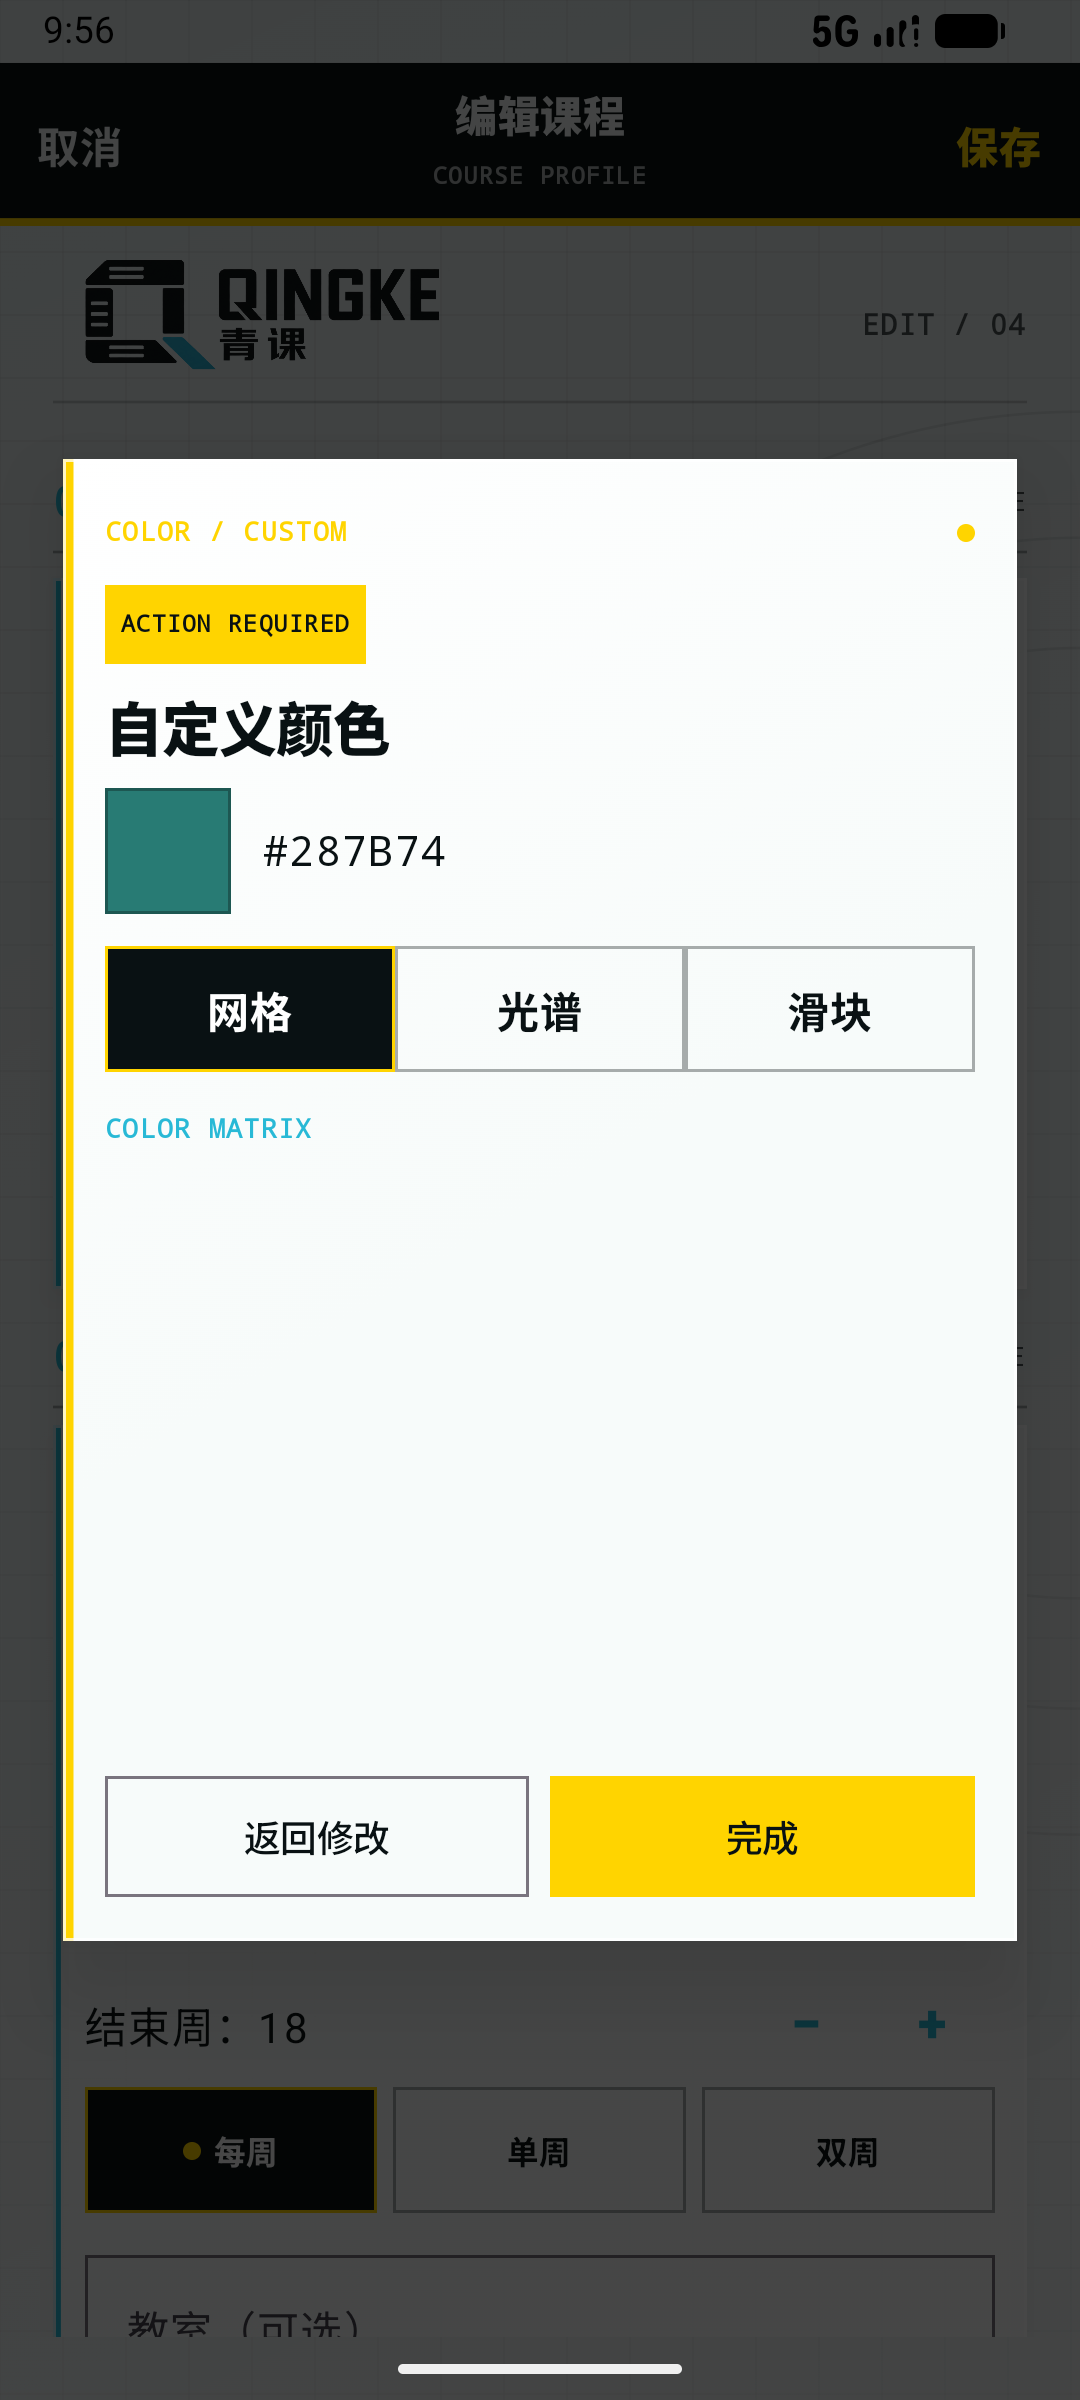
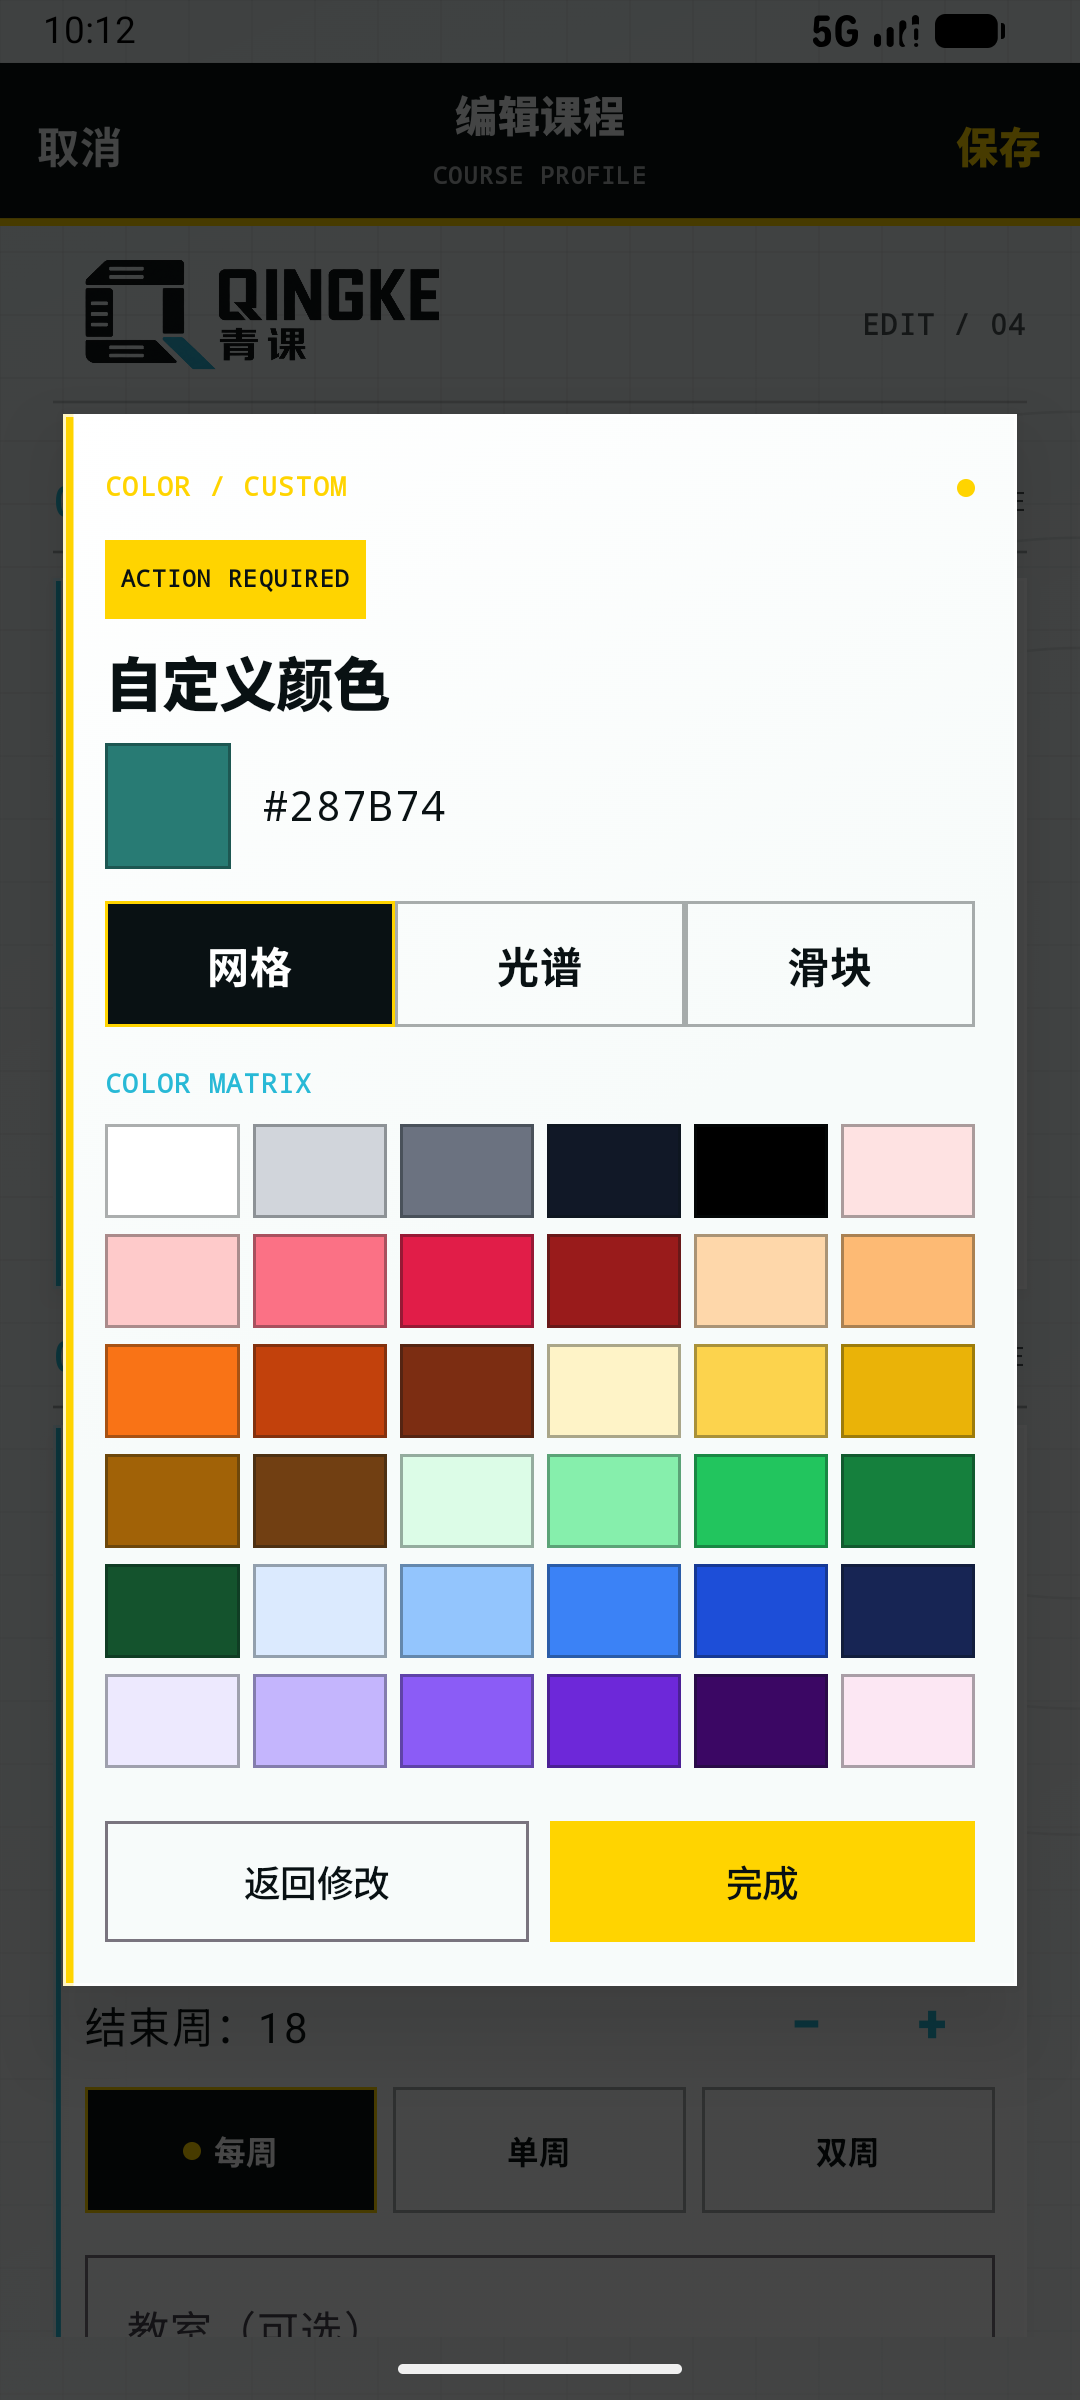
fix(android): render r5 color matrix cells

diff --git a/Android/app/src/androidTest/java/com/qingke/schedule/ui/QingKeAppTest.kt b/Android/app/src/androidTest/java/com/qingke/schedule/ui/QingKeAppTest.kt
@@ -17,6 +17,7 @@ import androidx.compose.runtime.getValue
 import androidx.compose.runtime.mutableStateOf
 import androidx.compose.runtime.setValue
 import androidx.compose.ui.graphics.asAndroidBitmap
+import androidx.compose.ui.geometry.Offset
 import androidx.compose.ui.graphics.Color
 import androidx.compose.ui.Modifier
 import androidx.compose.ui.draw.drawBehind
@@ -197,23 +198,27 @@ class QingKeAppTest {
 
     @Test fun r5TerminalColorModesDropdownsAndRepeatSelectorKeepOneEditorState() {
         val schedule = CourseScheduleFormState("r5", 1, 1, 1, 1, 18, RepeatRule.EVERY, "")
+        val baseState = readyToday(); val tenPeriodState = baseState.copy(data = baseState.data.copy(semester = baseState.data.semester!!.copy(periods = (1..10).map { Period(it, "%02d:00".format(7 + it), "%02d:45".format(7 + it)) })))
         var editor by mutableStateOf<CourseEditorState?>(CourseEditorState(CourseEditorMode.CREATE, color = "#287B74", colorInput = "#287B74", schedules = listOf(schedule), isColorDialogOpen = true))
         var day = 1; var start = 1; var end = 1; var repeat = RepeatRule.EVERY
-        rule.setContent { QingKeAppContent(readyToday(), null, MainTab.TODAY, QingKeAppActions(
+        rule.setContent { QingKeAppContent(tenPeriodState, null, MainTab.TODAY, QingKeAppActions(
             updateCourseColor = { value -> editor = editor!!.copy(color = value, colorInput = value) },
             updateCourseDay = { _, value -> day = value }, updateCourseStartPeriod = { _, value -> start = value }, updateCourseEndPeriod = { _, value -> end = value }, updateCourseRepeat = { _, value -> repeat = value },
         ), editor = editor) }
         rule.onNodeWithTag("course-color-mode-GRID").assertIsDisplayed()
         rule.onNodeWithTag("course-color-grid").assertIsDisplayed()
-        rule.onNodeWithTag("course-color-grid-E11D48").performClick(); assertEquals("#E11D48", editor!!.color)
+        fun pixels(tag: String, predicate: (Int) -> Boolean) = rule.onNodeWithTag(tag).captureToImage().asAndroidBitmap().let { bitmap -> (0 until bitmap.height).sumOf { y -> (0 until bitmap.width).count { x -> predicate(bitmap.getPixel(x, y)) } } }
+        assertTrue("red grid swatch must paint pixels", pixels("course-color-grid-E11D48") { pixel -> (pixel shr 16 and 0xff) > 160 && (pixel shr 8 and 0xff) < 100 } > 80)
+        assertTrue("green grid swatch must paint pixels", pixels("course-color-grid-22C55E") { pixel -> (pixel shr 8 and 0xff) > 130 && (pixel shr 16 and 0xff) < 80 } > 80)
+        rule.onNodeWithTag("course-color-grid-E11D48").performClick(); assertEquals("#E11D48", editor!!.color); rule.onNodeWithText("✓", useUnmergedTree = true).assertIsDisplayed()
         rule.onNodeWithTag("course-color-mode-SPECTRUM").performClick(); rule.onNodeWithTag("course-color-spectrum-area").assertIsDisplayed()
-        rule.onNodeWithTag("course-color-spectrum-area").performTouchInput { touchClick(center) }; assertTrue(editor!!.color.matches(Regex("^#[0-9A-F]{6}$")))
-        rule.onNodeWithTag("course-color-mode-SLIDERS").performClick(); rule.onNodeWithTag("course-r-slider").performTouchInput { touchClick(center) }; assertTrue(editor!!.color.matches(Regex("^#[0-9A-F]{6}$")))
+        val gridColor = editor!!.color; rule.onNodeWithTag("course-color-spectrum-area").performTouchInput { touchClick(center) }; val spectrumColor = editor!!.color; assertTrue("spectrum tap must change color", spectrumColor != gridColor); val spectrumHsv = hsvParts(spectrumColor); assertTrue("spectrum center saturation=${spectrumHsv[1]}", spectrumHsv[1] in 35..65); assertTrue("spectrum center value=${spectrumHsv[2]}", spectrumHsv[2] in 35..65)
+        rule.onNodeWithTag("course-color-mode-SLIDERS").performClick(); val beforeRed = rgbParts(editor!!.color)[0]; rule.onNodeWithTag("course-r-slider").performTouchInput { touchClick(Offset(700f, 16f)) }; val afterRed = rgbParts(editor!!.color)[0]; assertTrue("RGB slider must write a changed red channel before=$beforeRed after=$afterRed", beforeRed != afterRed && afterRed in 220..255)
         editor = editor!!.copy(isColorDialogOpen = false); rule.waitForIdle()
         rule.onNodeWithTag("course-schedule-header-r5").performScrollTo()
-        rule.onNodeWithTag("course-day-r5").performClick(); rule.onNodeWithTag("course-day-r5-menu").assertIsDisplayed(); rule.onNodeWithTag("course-day-r5-option-5").performClick(); assertEquals(5, day)
-        rule.onNodeWithTag("course-start-period-r5").performClick(); rule.onNodeWithTag("course-start-period-r5-option-2").performClick(); assertEquals(2, start)
-        rule.onNodeWithTag("course-end-period-r5").performClick(); rule.onNodeWithTag("course-end-period-r5-option-3").performClick(); assertEquals(3, end)
+        rule.onNodeWithTag("course-day-r5").performClick(); rule.onNodeWithTag("course-day-r5-menu").assertIsDisplayed(); rule.onNodeWithTag("course-day-r5-option-7").performScrollTo().performClick(); assertEquals(7, day)
+        rule.onNodeWithTag("course-start-period-r5").performClick(); rule.onNodeWithTag("course-start-period-r5-option-10").performScrollTo().performClick(); assertEquals(10, start)
+        rule.onNodeWithTag("course-end-period-r5").performClick(); rule.onNodeWithTag("course-end-period-r5-option-10").performScrollTo().performClick(); assertEquals(10, end)
         rule.onNodeWithTag("course-repeat-r5-ODD").performClick(); assertEquals(RepeatRule.ODD, repeat)
         listOf("course-repeat-r5-EVERY", "course-repeat-r5-ODD", "course-repeat-r5-EVEN").forEach(::assertAtLeast48Dp)
     }

diff --git a/Android/app/src/main/java/com/qingke/schedule/ui/QingKeApp.kt b/Android/app/src/main/java/com/qingke/schedule/ui/QingKeApp.kt
@@ -834,8 +834,8 @@ internal object CourseColorVisualSpec {
     Text("COLOR MATRIX", color = QingKeCyan, fontFamily = FontFamily.Monospace, fontSize = 10.sp, fontWeight = FontWeight.Black)
     CourseColorVisualSpec.grid.chunked(6).forEach { row -> Row(Modifier.fillMaxWidth(), horizontalArrangement = Arrangement.spacedBy(5.dp)) { row.forEach { option ->
         val selected = option.equals(color, true)
-        Box(Modifier.weight(1f).heightIn(min = 36.dp).padding(vertical = 3.dp).clickable(enabled = enabled) { update(option) }.semantics { contentDescription = "网格颜色 $option" }.testTag("course-color-grid-${option.removePrefix("#")}"), contentAlignment = Alignment.Center) {
-            Box(Modifier.fillMaxSize().background(courseColor(option), TerminalShape).border(if (selected) 3.dp else 1.dp, if (selected) SignalYellow else terminalBorder(dark), TerminalShape), contentAlignment = Alignment.Center) { if (selected) Text("✓", color = if (option == "#FFFFFF") InverseSurface else Color.White, fontWeight = FontWeight.Black) }
+        Box(Modifier.weight(1f).height(42.dp).padding(vertical = 3.dp).clickable(enabled = enabled) { update(option) }.semantics { contentDescription = "网格颜色 $option" }.testTag("course-color-grid-${option.removePrefix("#")}"), contentAlignment = Alignment.Center) {
+            Box(Modifier.fillMaxWidth().height(36.dp).background(courseColor(option), TerminalShape).border(if (selected) 3.dp else 1.dp, if (selected) SignalYellow else terminalBorder(dark), TerminalShape), contentAlignment = Alignment.Center) { if (selected) Text("✓", color = if (option == "#FFFFFF") InverseSurface else Color.White, fontWeight = FontWeight.Black) }
         }
     } } }
 }

diff --git a/docs/Android/handoff.md b/docs/Android/handoff.md
@@ -1,13 +1,13 @@
 # 安卓项目当前交接状态
 
-## P3-04 视觉 R5 终端表单组件已实施，待 Sol 集中实际 diff 复审／用户视觉验收（最新，2026-09-15）
+## P3-04 视觉 R5 网格色块返修已实施，待 Sol 集中实际 diff 复审／用户视觉验收（最新，2026-09-15）
 
 本轮以 `b636eeddc02ba7cc51ae5bb14c05ed0b6c2a91ec` 为 Android 基准，仅实施用户授权的三模式自定义课程颜色面板、星期／起止节次终端下拉菜单和每周／单周／双周终端分段控件。iOS 工作区 `/Users/takagisan/课表软件-IOS/ios`（只读基准 `fc3ddfb8ffa14b205a591ffdbed5632d5f975001`）未修改；未改 Web、Room/schema、共享协议、持久化格式、业务规则、周课表、设置、导入导出、其他阶段或 `main`。
 
-- 实现、测试及 R5 证据提交为 `ba1be75`（`feat(android): add r5 terminal course controls`），已推送 `origin/Android`；本交接更新提交仍待生成，避免在文件中自引用。`CourseColorDialog` 默认“网格”，新增等宽且 48dp 的“网格／光谱／滑块”入口；三页均以既有 ViewModel `editor.color` 为唯一颜色源。网格提供灰阶和 30+ 主色相／明暗单元；光谱为确定的 HSV 饱和度／明度平面加色相拖动条和选择指示器；滑块为 RGB 点击／拖动轨道并保留 `HEX / ADVANCED` 辅助输入。存储和 editor 仍只接收严格 `#RRGGBB`。
+- 实现、测试及 R5 首版证据提交为 `ba1be75`（`feat(android): add r5 terminal course controls`），已推送 `origin/Android`。Sol 目视核对四张首版截图后发现“COLOR MATRIX”标题下没有色块：`ColorGridPicker` 的 `fillMaxSize()` 处在可滚动、无界高度的内容中，实际没有可绘制高度。本次只将网格单元改为明确 `42dp` 外层／`36dp` 色块高度，并以 bitmap 像素回归验证红、绿代表色数量与选中后的 `editor.color`／勾标记；未改颜色持久化或任何业务规则。返修实现提交与本交接提交均待生成，避免在文件中自引用。
 - `TerminalDropdownMenu` 供星期、开始节次、结束节次共用：直角、不透明主题 surface、边框／阴影、青色分隔线、monospace 选项，当前项为 inverse 背景和黄色勾；保留原 choices、回调、disabled 与无障碍。`TerminalRepeatSelector` 取代 Material outlined buttons，三项 48dp、`selectableGroup`/radio 语义、深色反相选中态和黄色状态点，未改 `RepeatRule` 映射。
-- 新增纯 Kotlin 颜色契约覆盖网格代表色、HSV 平面边界／回环、RGB/HSV/HEX 边界；新增 API 37 Compose 用例覆盖三模式切换、网格／光谱／RGB 实时更新、状态保留、三类下拉回调和 repeat 点击。最终 Debug／Release JVM 各 **92 tests、0 failures/errors/skipped**；Debug、Release、AndroidTest APK 构建通过；`lintDebug` 完成（0 errors，沿用 21 warnings）；API 37 ARM64 完整 `connectedDebugAndroidTest --rerun-tasks` **67 tests、0 failures/errors/skipped**。文档验证、两个文档脚本和 `git diff --check` 待本轮收口后再次执行。
-- 最终生产入口创建并保存 `VisualR5`，重新打开 EDIT 核对网格 modal；截图在 `docs/Android/evidence/p3-04-visual-r5/`。已实际核对浅色／深色 100% 与深色 130%，目标 logcat 无 FATAL/ANR；设备恢复 light／1.0，停在 `VisualR5` 的 EDIT“网格”面板。**已实现、已测试，待 Sol 集中实际 diff 复审及用户视觉验收；不得据此宣称验收或启动下一阶段。**
+- 新增纯 Kotlin 颜色契约覆盖网格代表色、HSV 平面边界／回环、RGB/HSV/HEX 边界；API 37 Compose 用例覆盖三模式切换、网格像素、网格／光谱／RGB 实时更新、状态保留、三类下拉回调和 repeat 点击。返修后重新执行 Debug／Release JVM，各 **92 tests、0 failures/errors/skipped**；Debug、Release、AndroidTest APK 构建通过；`lintDebug` 为 **0 errors、21 warnings**；API 37 ARM64 完整 `connectedDebugAndroidTest --rerun-tasks` 为 **67 tests、0 failures/errors/skipped**，XML 位于 `Android/app/build/outputs/androidTest-results/connected/debug/TEST-qingke-api37-r3-arm(AVD) - 17.xml`。文档验证、两个文档脚本和 `git diff --check` 待本轮收口后执行。
+- 最终生产入口保留 `VisualR5` 并重新打开 EDIT；返修后已实际核对网格浅色 100%、深色 100%、深色 130%，并新增经目视核验的浅色光谱、滑块、开始节次菜单和 repeat 截图，清单在 `docs/Android/evidence/p3-04-visual-r5/README.md`。目标 logcat 无 FATAL/ANR；设备将恢复为 light／1.0，停在 `VisualR5` 的 EDIT“网格”面板。**Terra 返修已完成、已测试，待 Sol 集中实际 diff 复审及用户视觉验收；不得据此宣称验收或启动下一阶段。**
 
 ## P3-04 视觉 R4 已通过 Sol 技术复审，待用户视觉验收（最新，2026-09-15）
 

diff --git a/docs/Android/evidence/p3-04-visual-r5/README.md b/docs/Android/evidence/p3-04-visual-r5/README.md
@@ -2,11 +2,14 @@
 
 2026-09-15，`qingke-api37-r3-arm`（API 37、`arm64-v8a`）最终 debug APK 的生产入口截图。范围仅为三模式课程颜色面板、课程安排下拉菜单和重复分段控件；不代表 Sol 集中实际 diff 复审或用户视觉验收。
 
-- `color-grid-light-100.png`：CREATE 页面浅色 100% 的默认“网格”颜色面板，三个等宽入口、完整颜色矩阵、预览和终端 modal 可见。
-- `color-grid-visualr5-light-100.png`：保存并重新打开 `VisualR5` 后的 EDIT 页面，默认网格面板仍可用。
-- `color-grid-dark-100.png`：深色 100% 的 EDIT 网格面板。
-- `color-grid-dark-130.png`：深色 `font_scale=1.3` 的 EDIT 网格面板，模式入口和网格保持可见。
-- `weekday-menu-light-100.png`：星期选择器的非 Material 紫色终端菜单，包含不透明 surface、青色信息线和反相当前项。
-- `repeat-selector-light-100.png`：EDIT 安排中的每周／单周／双周直角终端分段控件，当前项带深色反相底与黄色状态点。
+首次 R5 复拍时，Sol 发现“COLOR MATRIX”标题下没有色块。原因是网格单元在可滚动、无界高度的容器中以 `fillMaxSize()` 测量；返修将每个单元改为明确的 `42dp` 外层／`36dp` 色块高度。下面仅列返修后已目视核验的截图；未列入的同目录旧文件是首版历史证据，不能用于证明本次修复。
 
-自动化覆盖三种颜色模式共享同一 editor 颜色、网格／HSV／RGB 映射边界、三类选择器回调、repeat 互斥点击、浅深/130%既有布局及完整 API 37 回归。生产入口还核对了 `VisualR5` 的保存、EDIT 重新打开、浅色/深色 100%、深色 130% 和目标 logcat；未出现目标 FATAL/ANR。设备最后恢复为 light／`font_scale=1.0`，停在 EDIT 的“网格”面板。
+- `color-grid-visualr5-light-100.png`：保存并重新打开 `VisualR5` 后，浅色 100% EDIT 的默认“网格”面板；三个入口、完整 6×6 色块矩阵和不透明 modal 可见。
+- `grid-dark-100-r5fix.png`：深色 100% EDIT 网格面板；36 个色块完整可见。
+- `grid-dark-130-r5fix.png`：深色 `font_scale=1.3` EDIT 网格面板；入口、色块和操作按钮均未裁切。
+- `spectrum-light-100-r5fix.png`：浅色 100% HSV 饱和度／明度平面、色相条与选择指示器。
+- `sliders-light-100-r5fix.png`：浅色 100% RGB 三轨道、通道值和 `HEX / ADVANCED` 输入。
+- `start-period-menu-light-100-r5fix5.png`：开始节次终端菜单；不透明 surface、青色分隔线、反相当前项与黄色勾可见。
+- `repeat-selector-light-100-r5fix2.png`：EDIT 安排中的每周／单周／双周直角分段控件；当前项带深色反相底和黄色状态点。
+
+自动化覆盖三种颜色模式共享同一 editor 颜色、网格代表色像素、HSV／RGB 映射与回调、三类选择器回调和 repeat 互斥点击；完整 API 37 回归为 67 tests、0 failures/errors/skipped。生产入口还核对了 `VisualR5` 的保存、EDIT 重新打开、浅色／深色 100%、深色 130% 和目标 logcat；未出现目标 FATAL/ANR。设备恢复为 light／`font_scale=1.0`，停在 EDIT 的“网格”面板。
